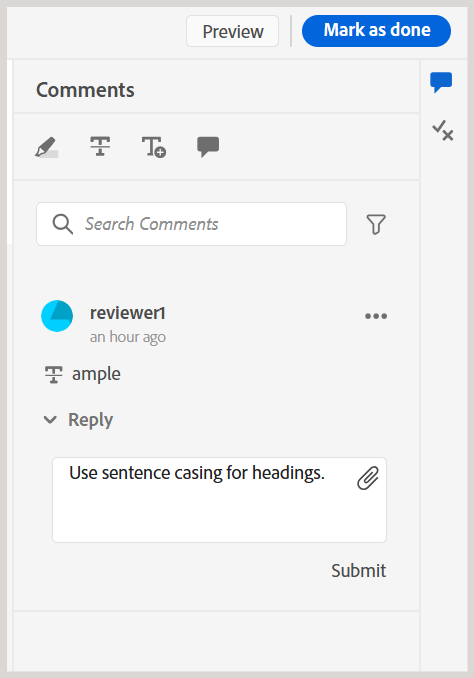
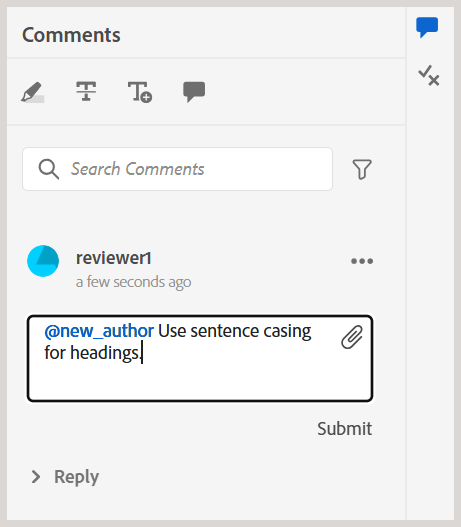
updated review docs

diff --git a/help/product-guide/user-guide/review-topics.md b/help/product-guide/user-guide/review-topics.md
@@ -158,16 +158,15 @@ The following screenshot shows the content in *Preview* mode:
 
 ![](images/review-preview-mode.png){width="550" align="left"}
 
-**Reply to a comment by tagging other users**
+**Tag task users in a comment**
 
-When collaborating on a review task with multiple reviewers, you can enhance communication by tagging specific users in the comment reply box. As a reviewer or the initiator, you can reply to any comment and tag other users involved in the same review task to direct their attention or assign follow-ups. This functionality is available only for active review tasks.
-
-![](images/tag-users-review.png){width="350" align="left"}
-*Caption:Tag users as an initiator/Author*
+When collaborating on a review task with multiple reviewers, you can enhance communication by tagging specific users in both new comments and replies. As a reviewer, you can initiate a comment or respond to an existing one while tagging other users involved in the same review task to draw their attention or assign follow-ups. This functionality is available only for active review tasks.
 
 ![](images/tag-users-review-ui.png){width="350" align="left"}
-*Caption:Tag users as a reviewer*
 
+Tagged users receive both an email and an AEM notification, ensuring they’re promptly informed. 
+
+![](images/mentioned-in-tags-author.png){width="350" align="left"}
 
 **Add attachments to comments** -   If you want to supplement your comment by providing additional information which is available in some other file, you can do so by attaching it with your comment. As a reviewer, you can easily add one or multiple files from your local system to your comment. A file can be added to all supported forms of comments - Highlight, Strikethrough, Insert Text, or a Comment.
 

diff --git a/help/product-guide/user-guide/review-address-review-comments.md b/help/product-guide/user-guide/review-address-review-comments.md
@@ -68,12 +68,11 @@ In the Editor, the right panel contains the Review and Track changes icons. The 
 
 **Reply to a comment by tagging other users**
 
-As an Author and initiator of the review task, you can reply to review comments and tag other users involved in the same review task to direct their attention or assign follow-ups. This functionality is available only for active review tasks.
+As an Author and initiator of the review task, you can reply to review comments and tag other users involved in the same review task to direct their attention or assign follow-ups. This functionality is available only for active review tasks. 
 
 ![](images/tag-users-review.png){width="350" align="left"}
 *Caption:Tag users as an initiator/Author*
 
-
-
+Tagged users receive both an email and an AEM notification, ensuring they’re promptly informed. 
 
 **Parent topic:**[Introduction to review](review.md)

diff --git a/help/product-guide/user-guide/review.md b/help/product-guide/user-guide/review.md
@@ -21,7 +21,7 @@ Some of the main features offered by Adobe Experience Manager Guides to the *ini
 -   Share an updated version of the topic for review from the Review Dashboard.
 
 -   Access comments shared on different versions of topic.
--   Reply to a comment by tagging users involved in the same review task.
+-   Easily tag users of sepcific review task in comments or replies for quick action and follow-ups. Tagged users are immediately notified through both AEM and Email notification.
 -   Group and filter comments based on version of topic.
 
 -   View side-by-side differences between different versions of topics shared for review.
